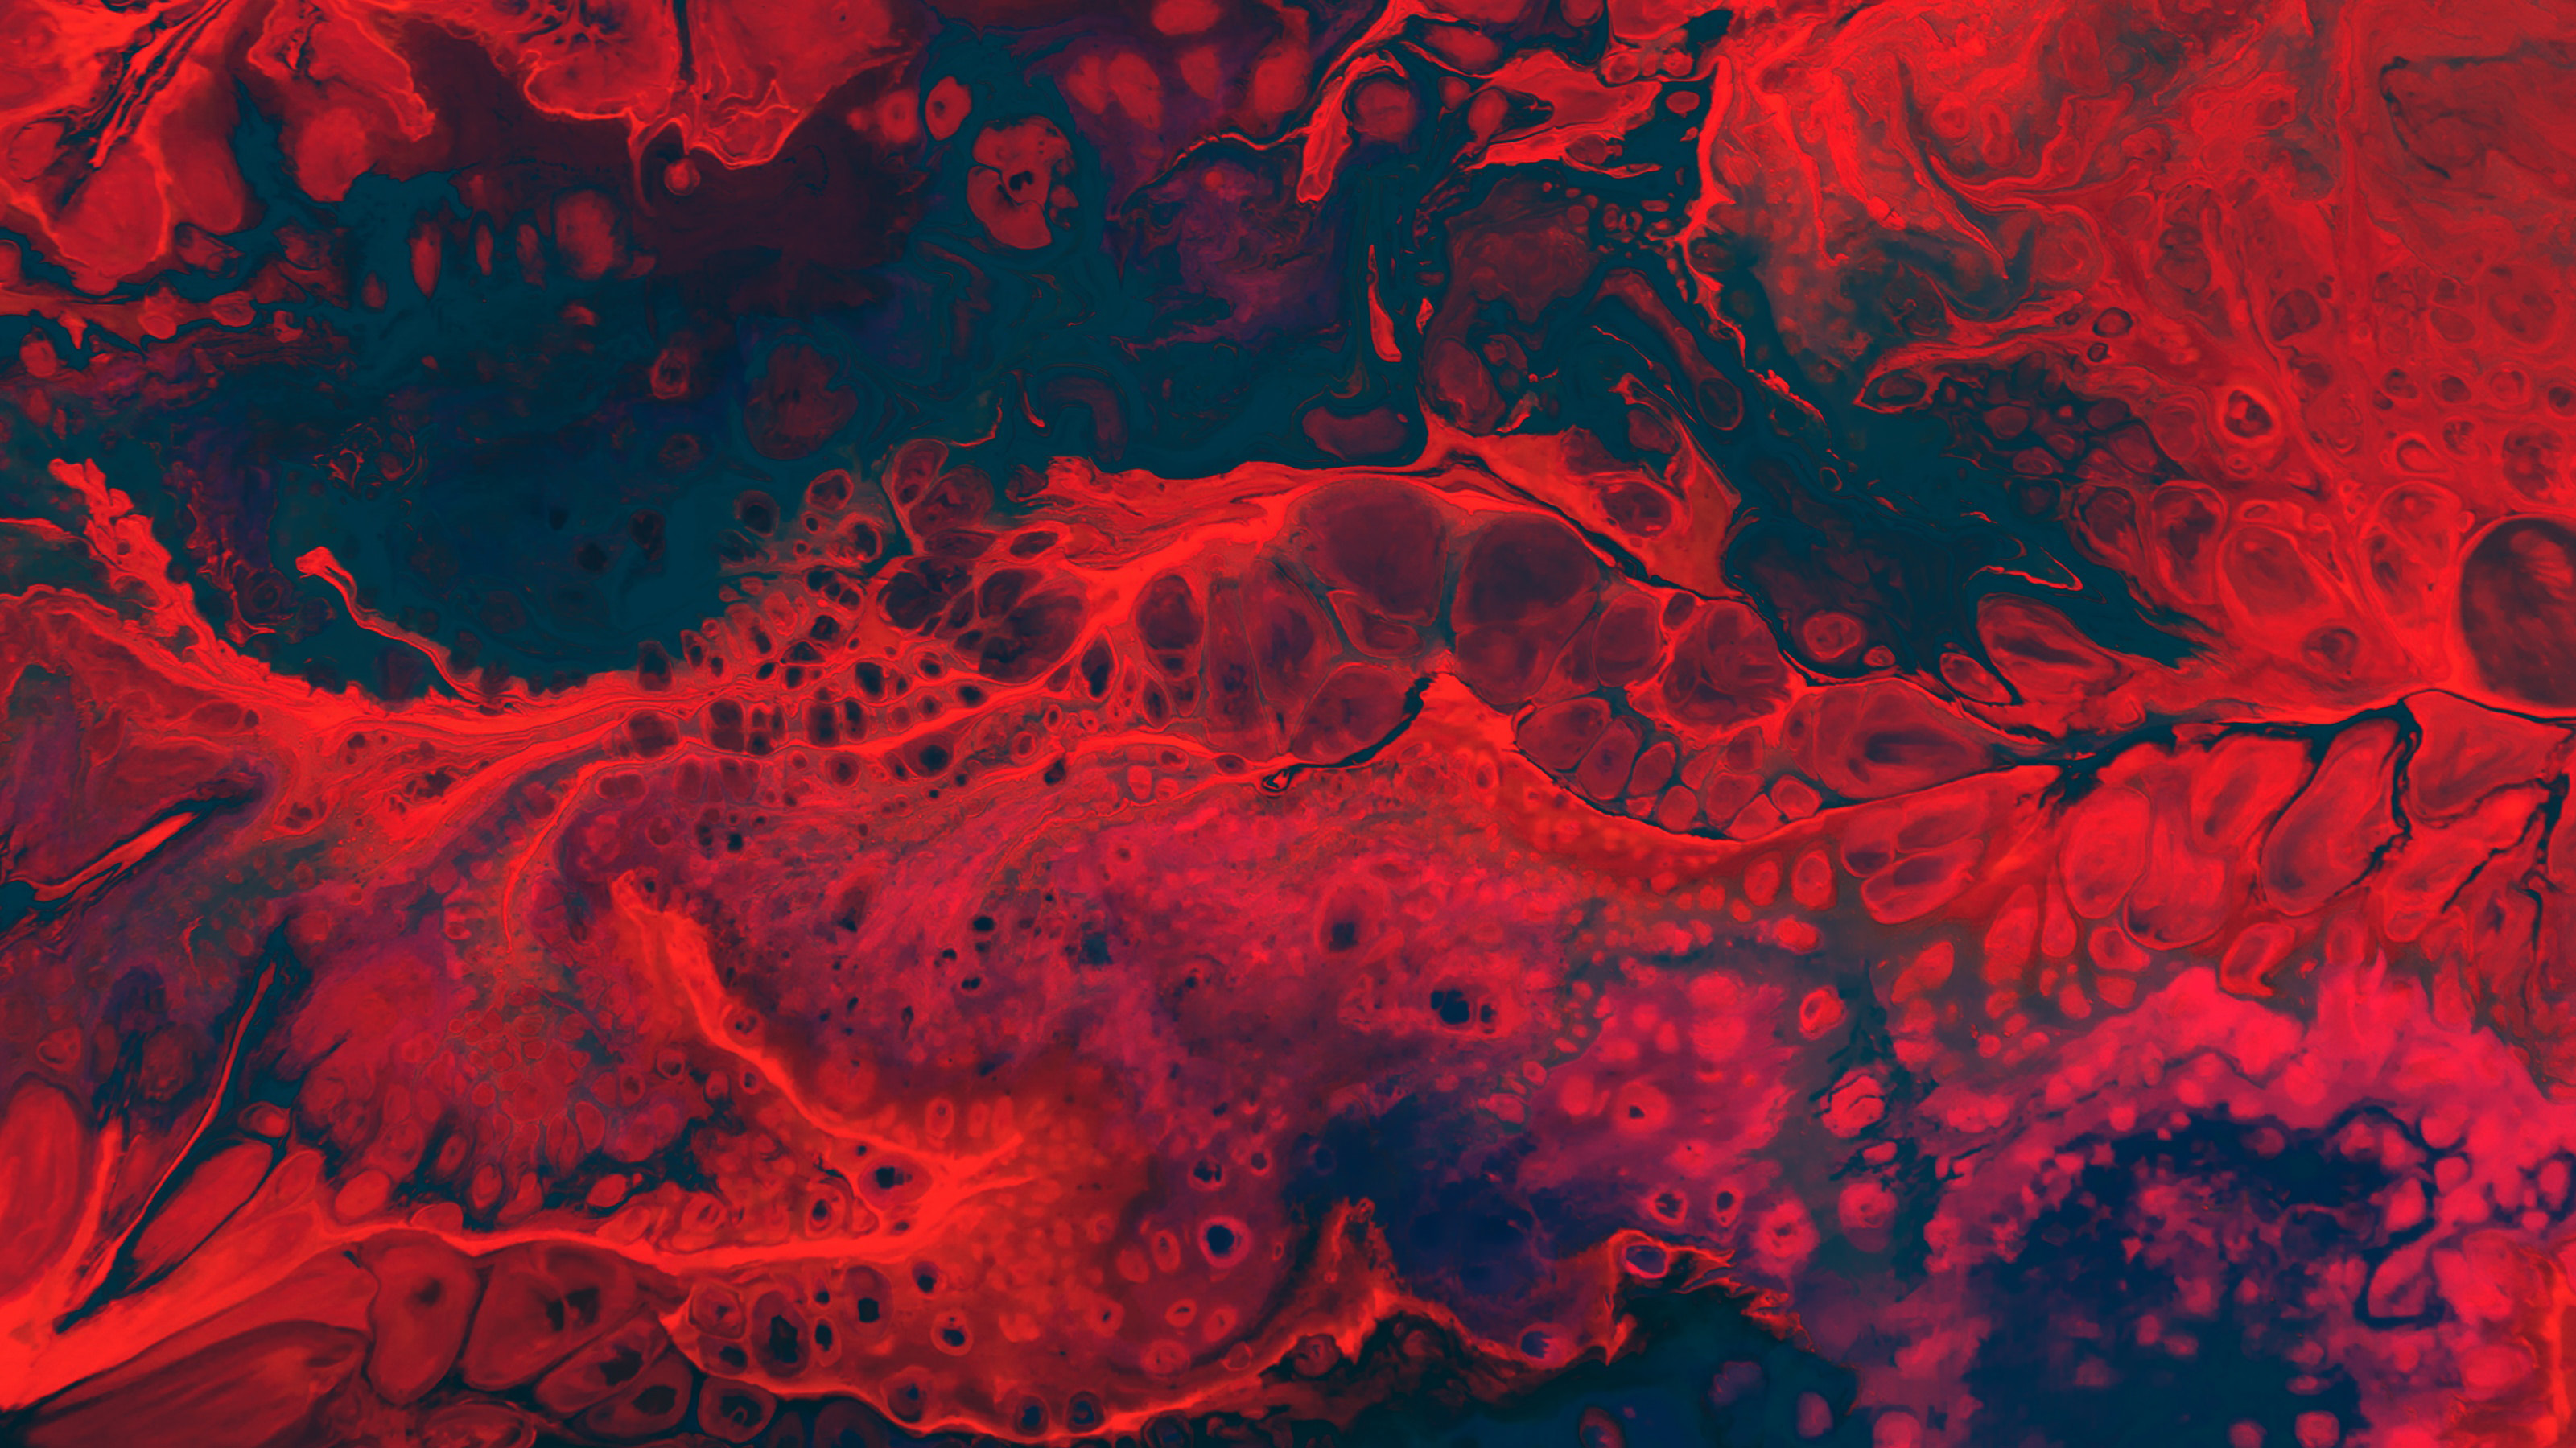
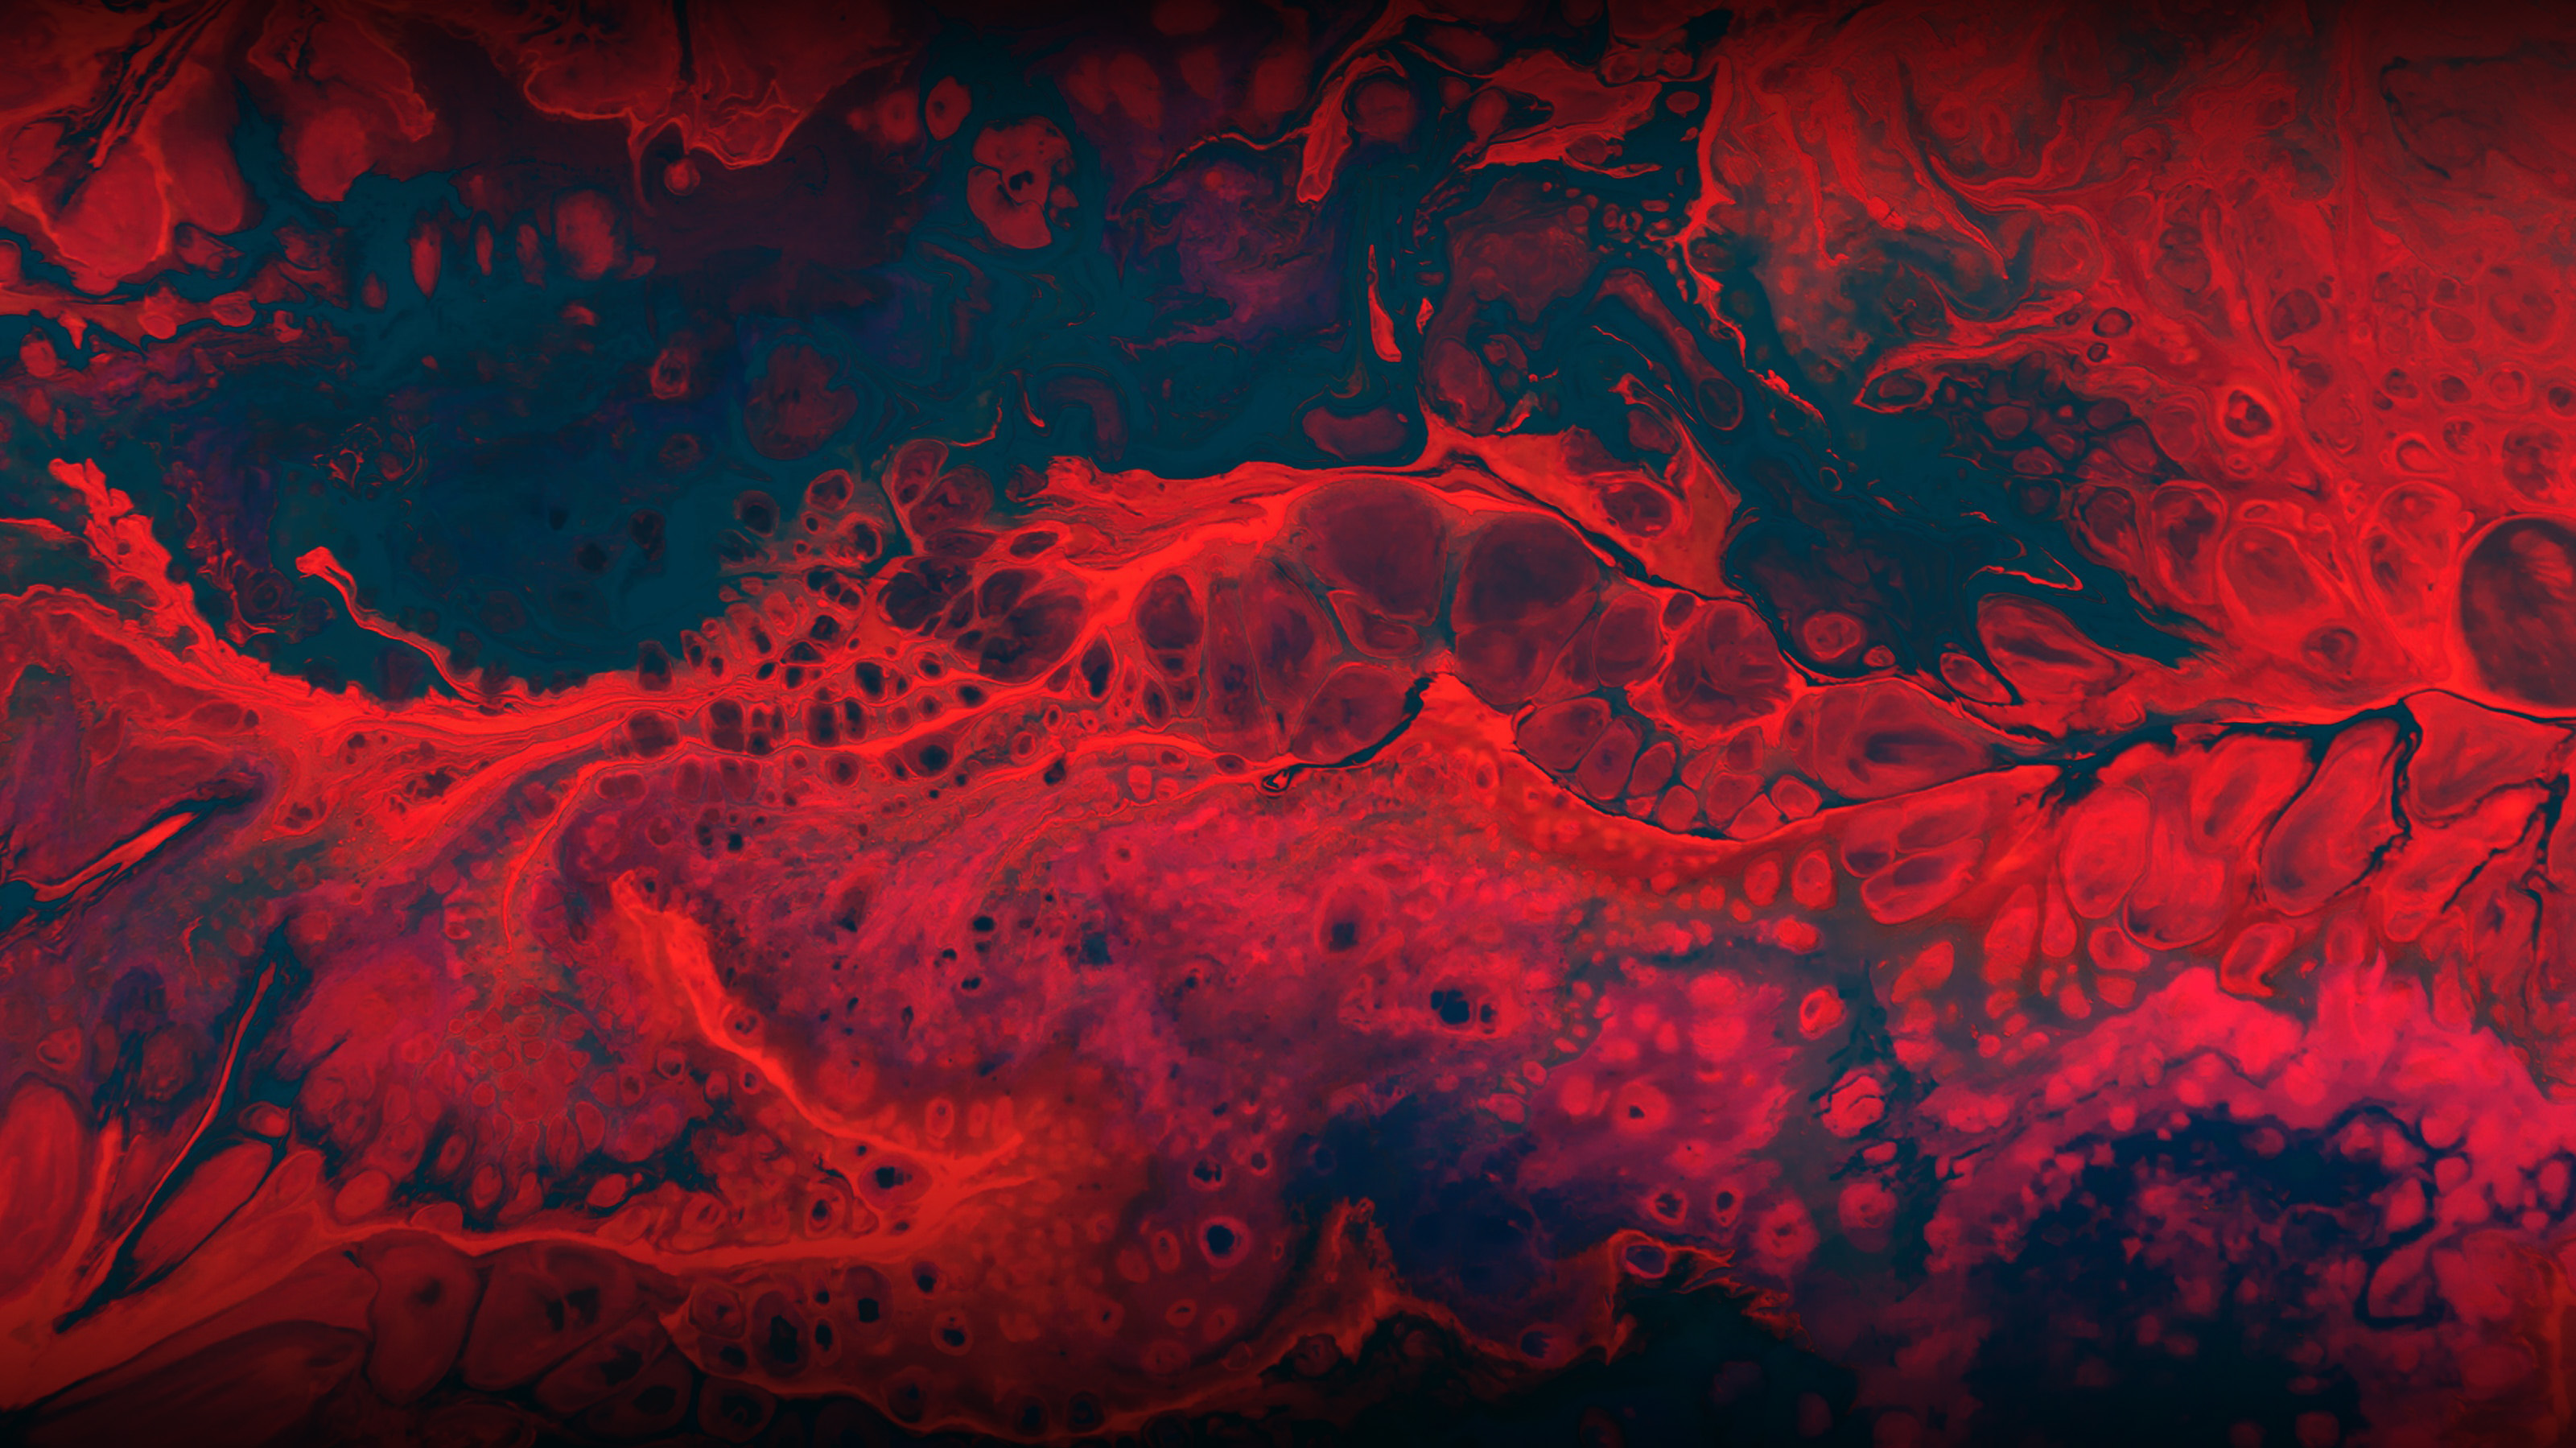
visual edit

Changed region(s): [[0.0, 0.7782, 1.0, 1.0], [0.0, 0.0, 1.0, 0.1556]]

diff --git a/css/preloader/xudacity-preloader.css b/css/preloader/xudacity-preloader.css
@@ -1,0 +1,141 @@
+@import 'https://fonts.googleapis.com/css?family=Lato:100,100i,300,300i,400,400i,700,700i,900,900i|Open+Sans:300,300i,400,400i,600,600i,700,700i,800,800i|Playfair+Display:400,400i,700,700i,900,900i';
+@import 'https://fonts.googleapis.com/css?family=Major+Mono+Display" rel="stylesheet';
+
+#preloader {
+    position: fixed;
+    top: 0;
+    left: 0;
+    right: 0;
+    bottom: 0;
+    background-color: #222; /* refresh background color */
+    z-index: 10000
+}
+
+#status,
+.preloader {
+    top: 50%;
+    left: 50%;
+    position: absolute
+}
+
+#status {
+    width: 100px;
+    height: 100px;
+    background-repeat: no-repeat;
+    background-position: center;
+    margin: -50px 0 0 -50px
+}
+
+.preloader {
+    height: 40px;
+    width: 40px;
+    margin-top: -20px;
+    margin-left: -20px
+}
+
+.preloader:before {
+    content: "";
+    display: block;
+    position: absolute;
+    left: -1px;
+    top: -1px;
+    height: 100%;
+    width: 100%;
+    -webkit-animation: rotation 1s linear infinite;
+    animation: rotation 1s linear infinite;
+    border: 2px solid #e723d7; /* color of the loader*/
+    border-top: 2px solid transparent;
+    border-radius: 100%
+}
+
+.preloader>.icon {
+    position: absolute;
+    top: 50%;
+    left: 50%;
+    height: 25px;
+    width: 10.6px;
+    margin-top: -12.5px;
+    margin-left: -5.3px;
+    -webkit-animation: wink 1s ease-in-out infinite alternate;
+    animation: wink 1s ease-in-out infinite alternate
+}
+
+@media only screen and (min-width:768px) {
+    .preloader {
+        height: 60px;
+        width: 60px;
+        margin-top: -30px;
+        margin-left: -30px
+    }
+    .preloader:before {
+        left: -2px;
+        top: -2px;
+        border-width: 2px
+    }
+    .preloader>.icon {
+        height: 37.5px;
+        width: 15.9px;
+        margin-top: -18.75px;
+        margin-left: -7.95px
+    }
+}
+
+@media only screen and (min-width:1200px) {
+    .preloader {
+        height: 60px;
+        width: 60px;
+        margin-top: -30px;
+        margin-left: -30px
+    }
+    .preloader>.icon {
+        height: 50px;
+        width: 21.2px;
+        margin-top: -25px;
+        margin-left: -10.6px
+    }
+}
+
+@-webkit-keyframes rotation {
+    from {
+        -webkit-transform: rotate(0);
+        transform: rotate(0)
+    }
+    to {
+        -webkit-transform: rotate(359deg);
+        transform: rotate(359deg)
+    }
+}
+
+@keyframes rotation {
+    from {
+        -webkit-transform: rotate(0);
+        transform: rotate(0)
+    }
+    to {
+        -webkit-transform: rotate(359deg);
+        transform: rotate(359deg)
+    }
+}
+
+@-webkit-keyframes wink {
+    from {
+        opacity: 0
+    }
+    to {
+        opacity: 1
+    }
+}
+
+@keyframes wink {
+    from {
+        opacity: 0
+    }
+    to {
+        opacity: 1
+    }
+}
+
+
+
+
+

diff --git a/css/substyle.css b/css/substyle.css
@@ -112,6 +112,17 @@ body {
     color: #6e5494;
 }
 
+.button.youtube,
+.button:hover {
+    background-color: #ff0000;
+    color: white;
+}
+
+.button.youtube:hover {
+    background-color: white;
+    color: #ff0000;
+}
+
 .button i {
     margin-left: 5px;
 }

diff --git a/css/style.css b/css/style.css
@@ -316,7 +316,7 @@ a.active { /*matches with bg-nav*/
 ==================================================*/
 
 #projects {
-    background-color: #333;
+    background-color: #111;
     padding: 100px 0;
 }
 

diff --git a/index.html b/index.html
@@ -185,7 +185,7 @@
                                 </a>
                             </div>
                             <div class="col-md-4 col-sm-6 music">
-                                <a id="demo06" href="https://www.youtube.com/playlist?list=PLoTfgDfEHSduGIpKDQBMPkVC84F6VlAqW" target="_blank" class="portfolio_item"> <img src="img/portfolio/06.jpg" alt="image" class="img-responsive" />
+                                <a id="demo06" href="xudacity.html" class="portfolio_item"> <img src="img/portfolio/06.jpg" alt="image" class="img-responsive" />
                                     <div class="portfolio_item_hover">
                                         <div class="portfolio-border clearfix">
                                             <div class="item_info"> <span>Xudacity</span> <em>Music</em> </div>

diff --git a/revitalize.html b/revitalize.html
@@ -58,7 +58,7 @@
             <div class="preloader" aria-busy="true" aria-label="Loading, please wait." role="progressbar"></div>
         </div>
     </div>
-    <a href="javascript:history.back()"><img src="ionicons/fonts/chevron_left_white.png" id=BACK></a>
+    <a href="index.html#projects"><img src="ionicons/fonts/chevron_left_white.png" id=BACK></a>
     <!--Mainmenu-area-->
     <div class="mainmenu-area">
         <div class="container">

diff --git a/sightsaver.html b/sightsaver.html
@@ -58,7 +58,7 @@
             <div class="preloader" aria-busy="true" aria-label="Loading, please wait." role="progressbar"></div>
         </div>
     </div>
-    <a href="javascript:history.back()"><img src="ionicons/fonts/chevron_left_white.png" id=BACK></a>
+    <a href="index.html#projects"><img src="ionicons/fonts/chevron_left_white.png" id=BACK></a>
     <!--Mainmenu-area-->
     <div class="mainmenu-area">
         <div class="container">

diff --git a/spark.html b/spark.html
@@ -69,7 +69,7 @@
             </div>
         </div>
     </div>
-    <a href="javascript:history.back()"><img src="ionicons/fonts/chevron_left_white.png" id=BACK></a>
+    <a href="index.html#projects"><img src="ionicons/fonts/chevron_left_white.png" id=BACK></a>
     <!--Mainmenu-area/-->
     <!--Header-area-->
     <header class="overlay full-height relative v-center" id="home-page">

diff --git a/utinerary.html b/utinerary.html
@@ -58,7 +58,7 @@
             <div class="preloader" aria-busy="true" aria-label="Loading, please wait." role="progressbar"></div>
         </div>
     </div>
-    <a href="javascript:history.back()"><img src="ionicons/fonts/chevron_left_white.png" id=BACK></a>
+    <a href="index.html#projects"><img src="ionicons/fonts/chevron_left_white.png" id=BACK></a>
 
     <!--Mainmenu-area-->
     <div class="mainmenu-area">

diff --git a/xudaii.html b/xudaii.html
@@ -58,7 +58,7 @@
             <div class="preloader" aria-busy="true" aria-label="Loading, please wait." role="progressbar"></div>
         </div>
     </div>
-    <a href="javascript:history.back()"><img src="ionicons/fonts/chevron_left_white.png" id=BACK></a>
+    <a href="index.html#projects"><img src="ionicons/fonts/chevron_left_white.png" id=BACK></a>
     <!--Mainmenu-area-->
     <div class="mainmenu-area">
         <div class="container">